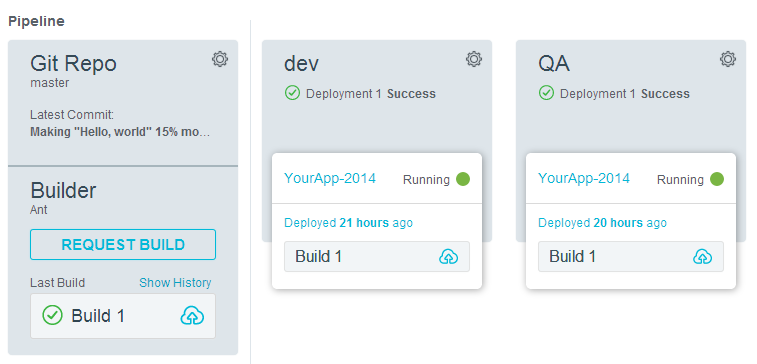
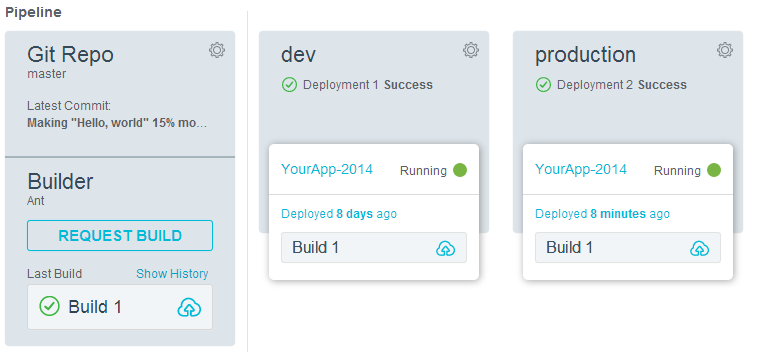
What's New MSD screencap update and minor textual tweak.

diff --git a/whatsnew/index.md b/whatsnew/index.md
@@ -7,7 +7,7 @@
 
 ##Multistage deployment
 
-You can now configure IBM DevOps Services projects to deploy to multiple Bluemix spaces. To use multistage deployment, create more than one deployer stage. For example, you might configure a stage that deploys to a "Test" space, and another that deploys to a "Production" space. 
+You can now configure IBM DevOps Services projects to deploy to multiple Bluemix spaces. To use multistage deployment, create more than one deployer stage. For example, you might configure a stage that deploys to a "dev" space for development, and another that deploys to a "production" space. 
 
 ![a configured pipeline set-up][55]
 
